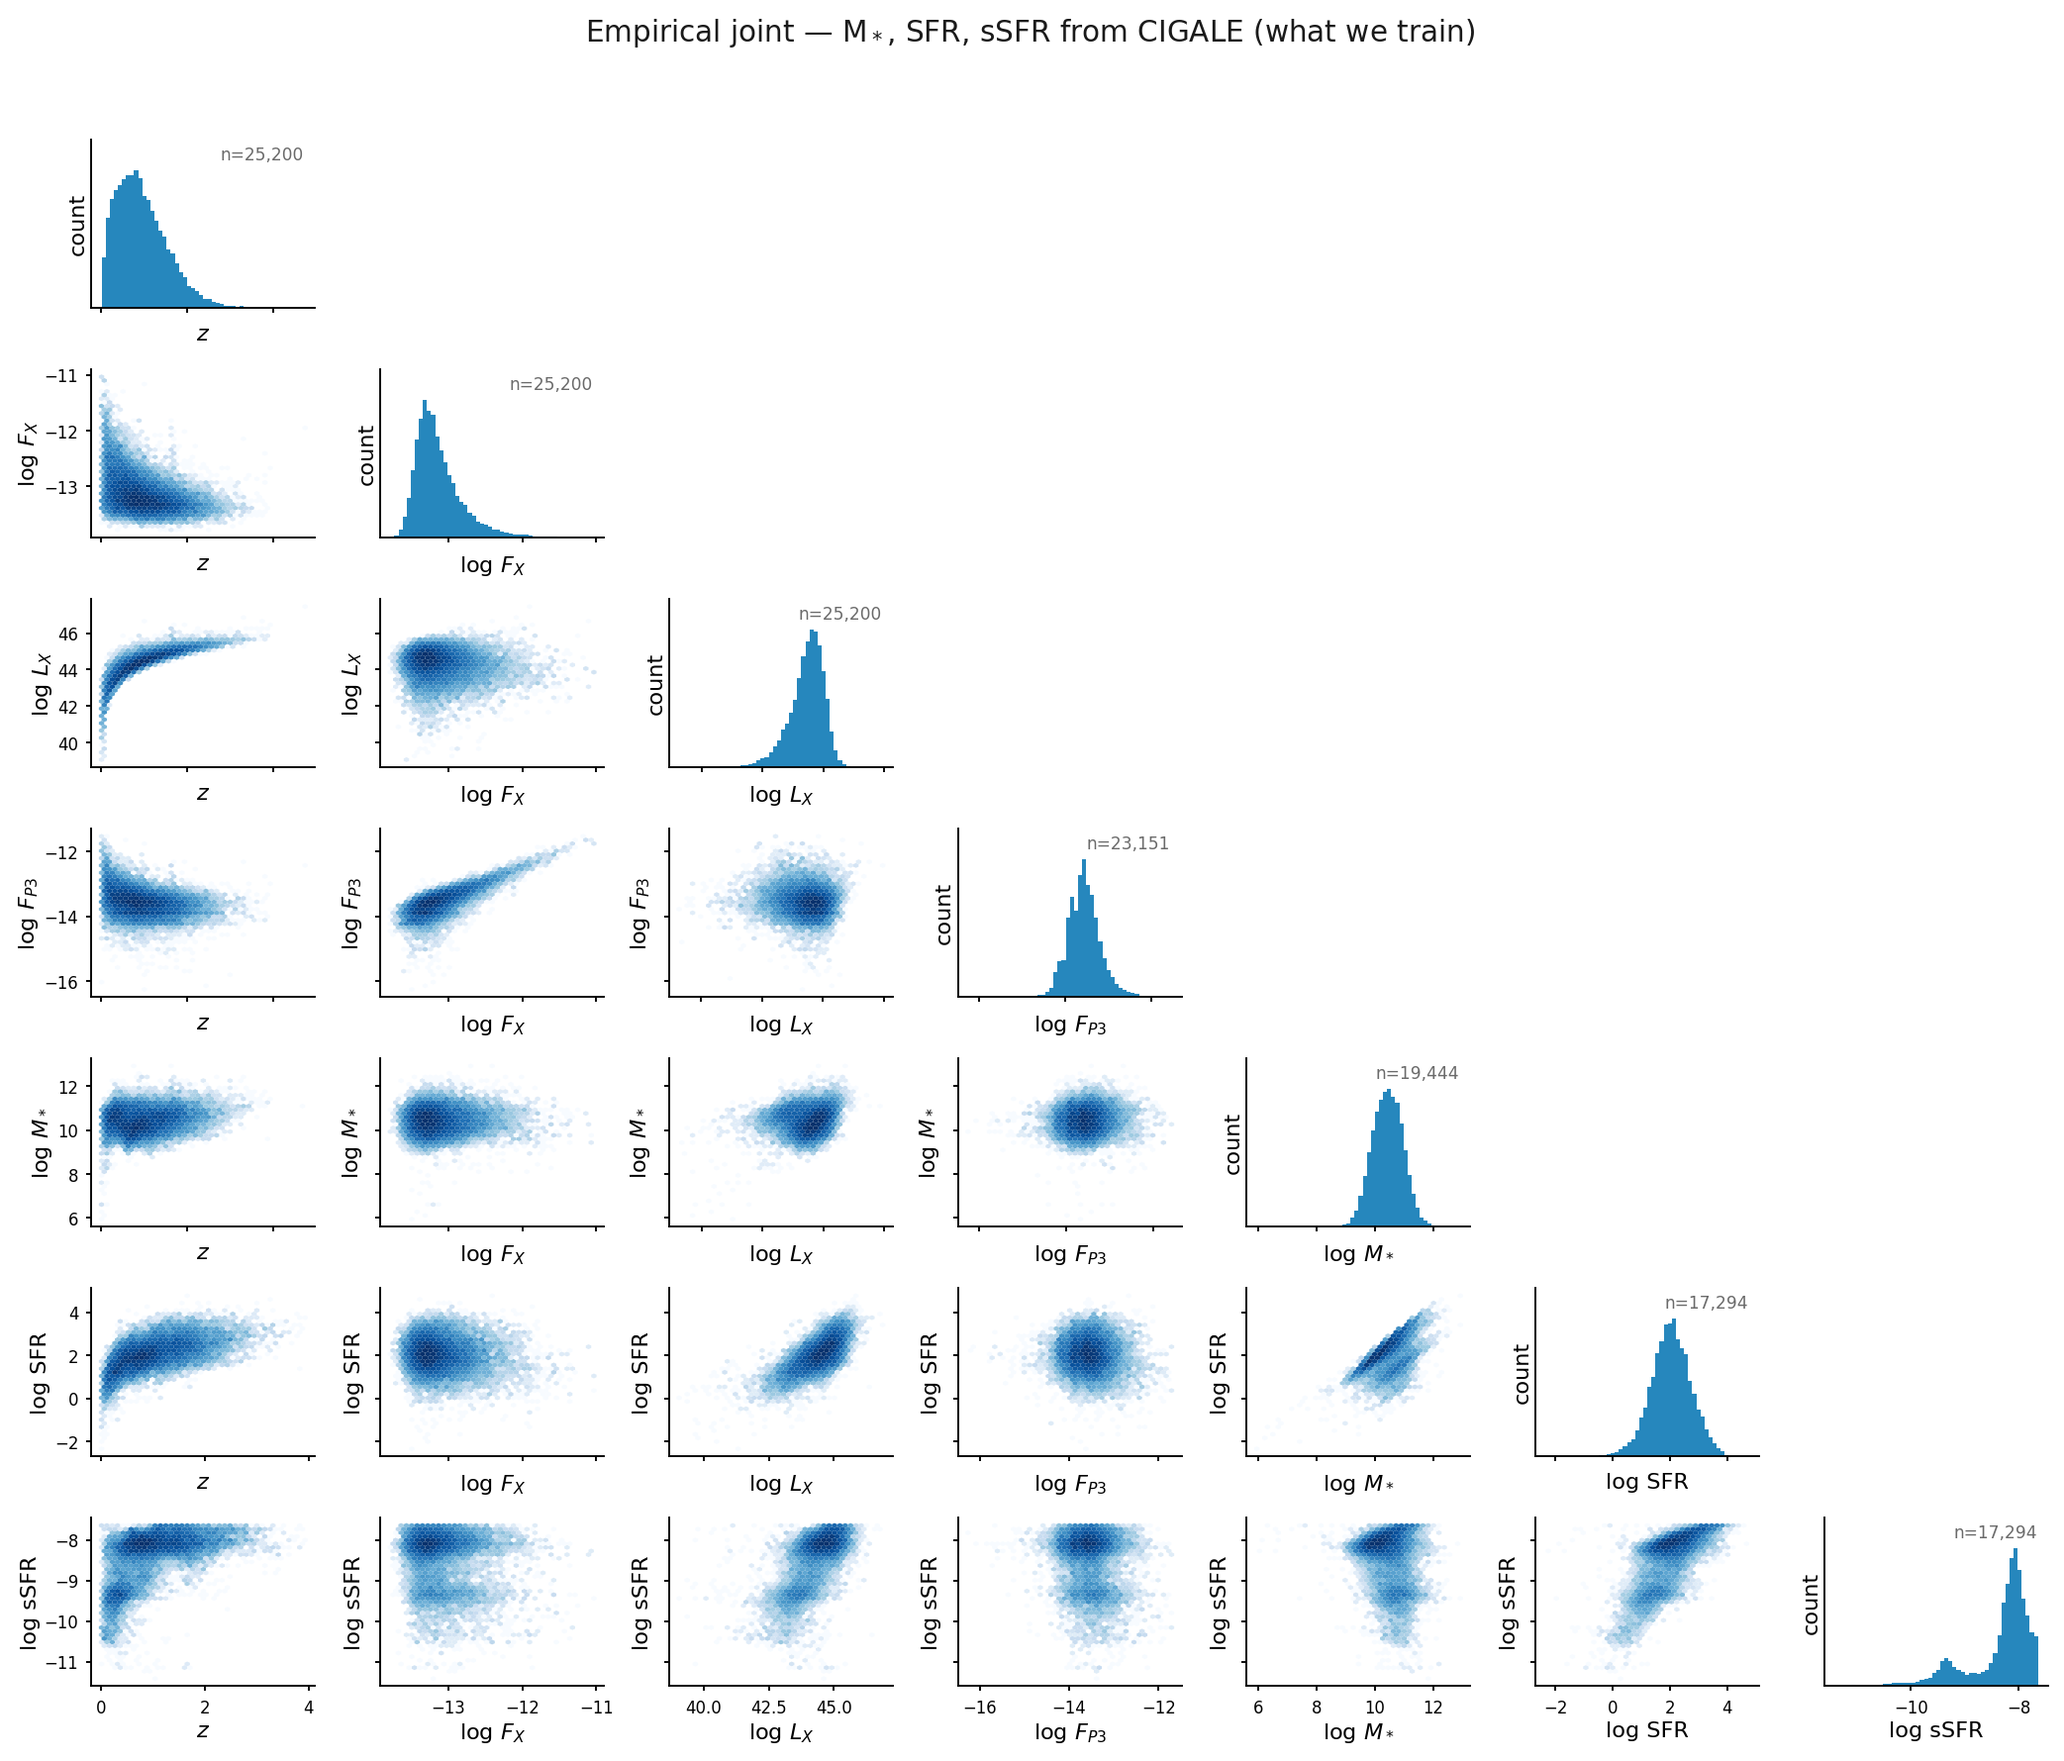
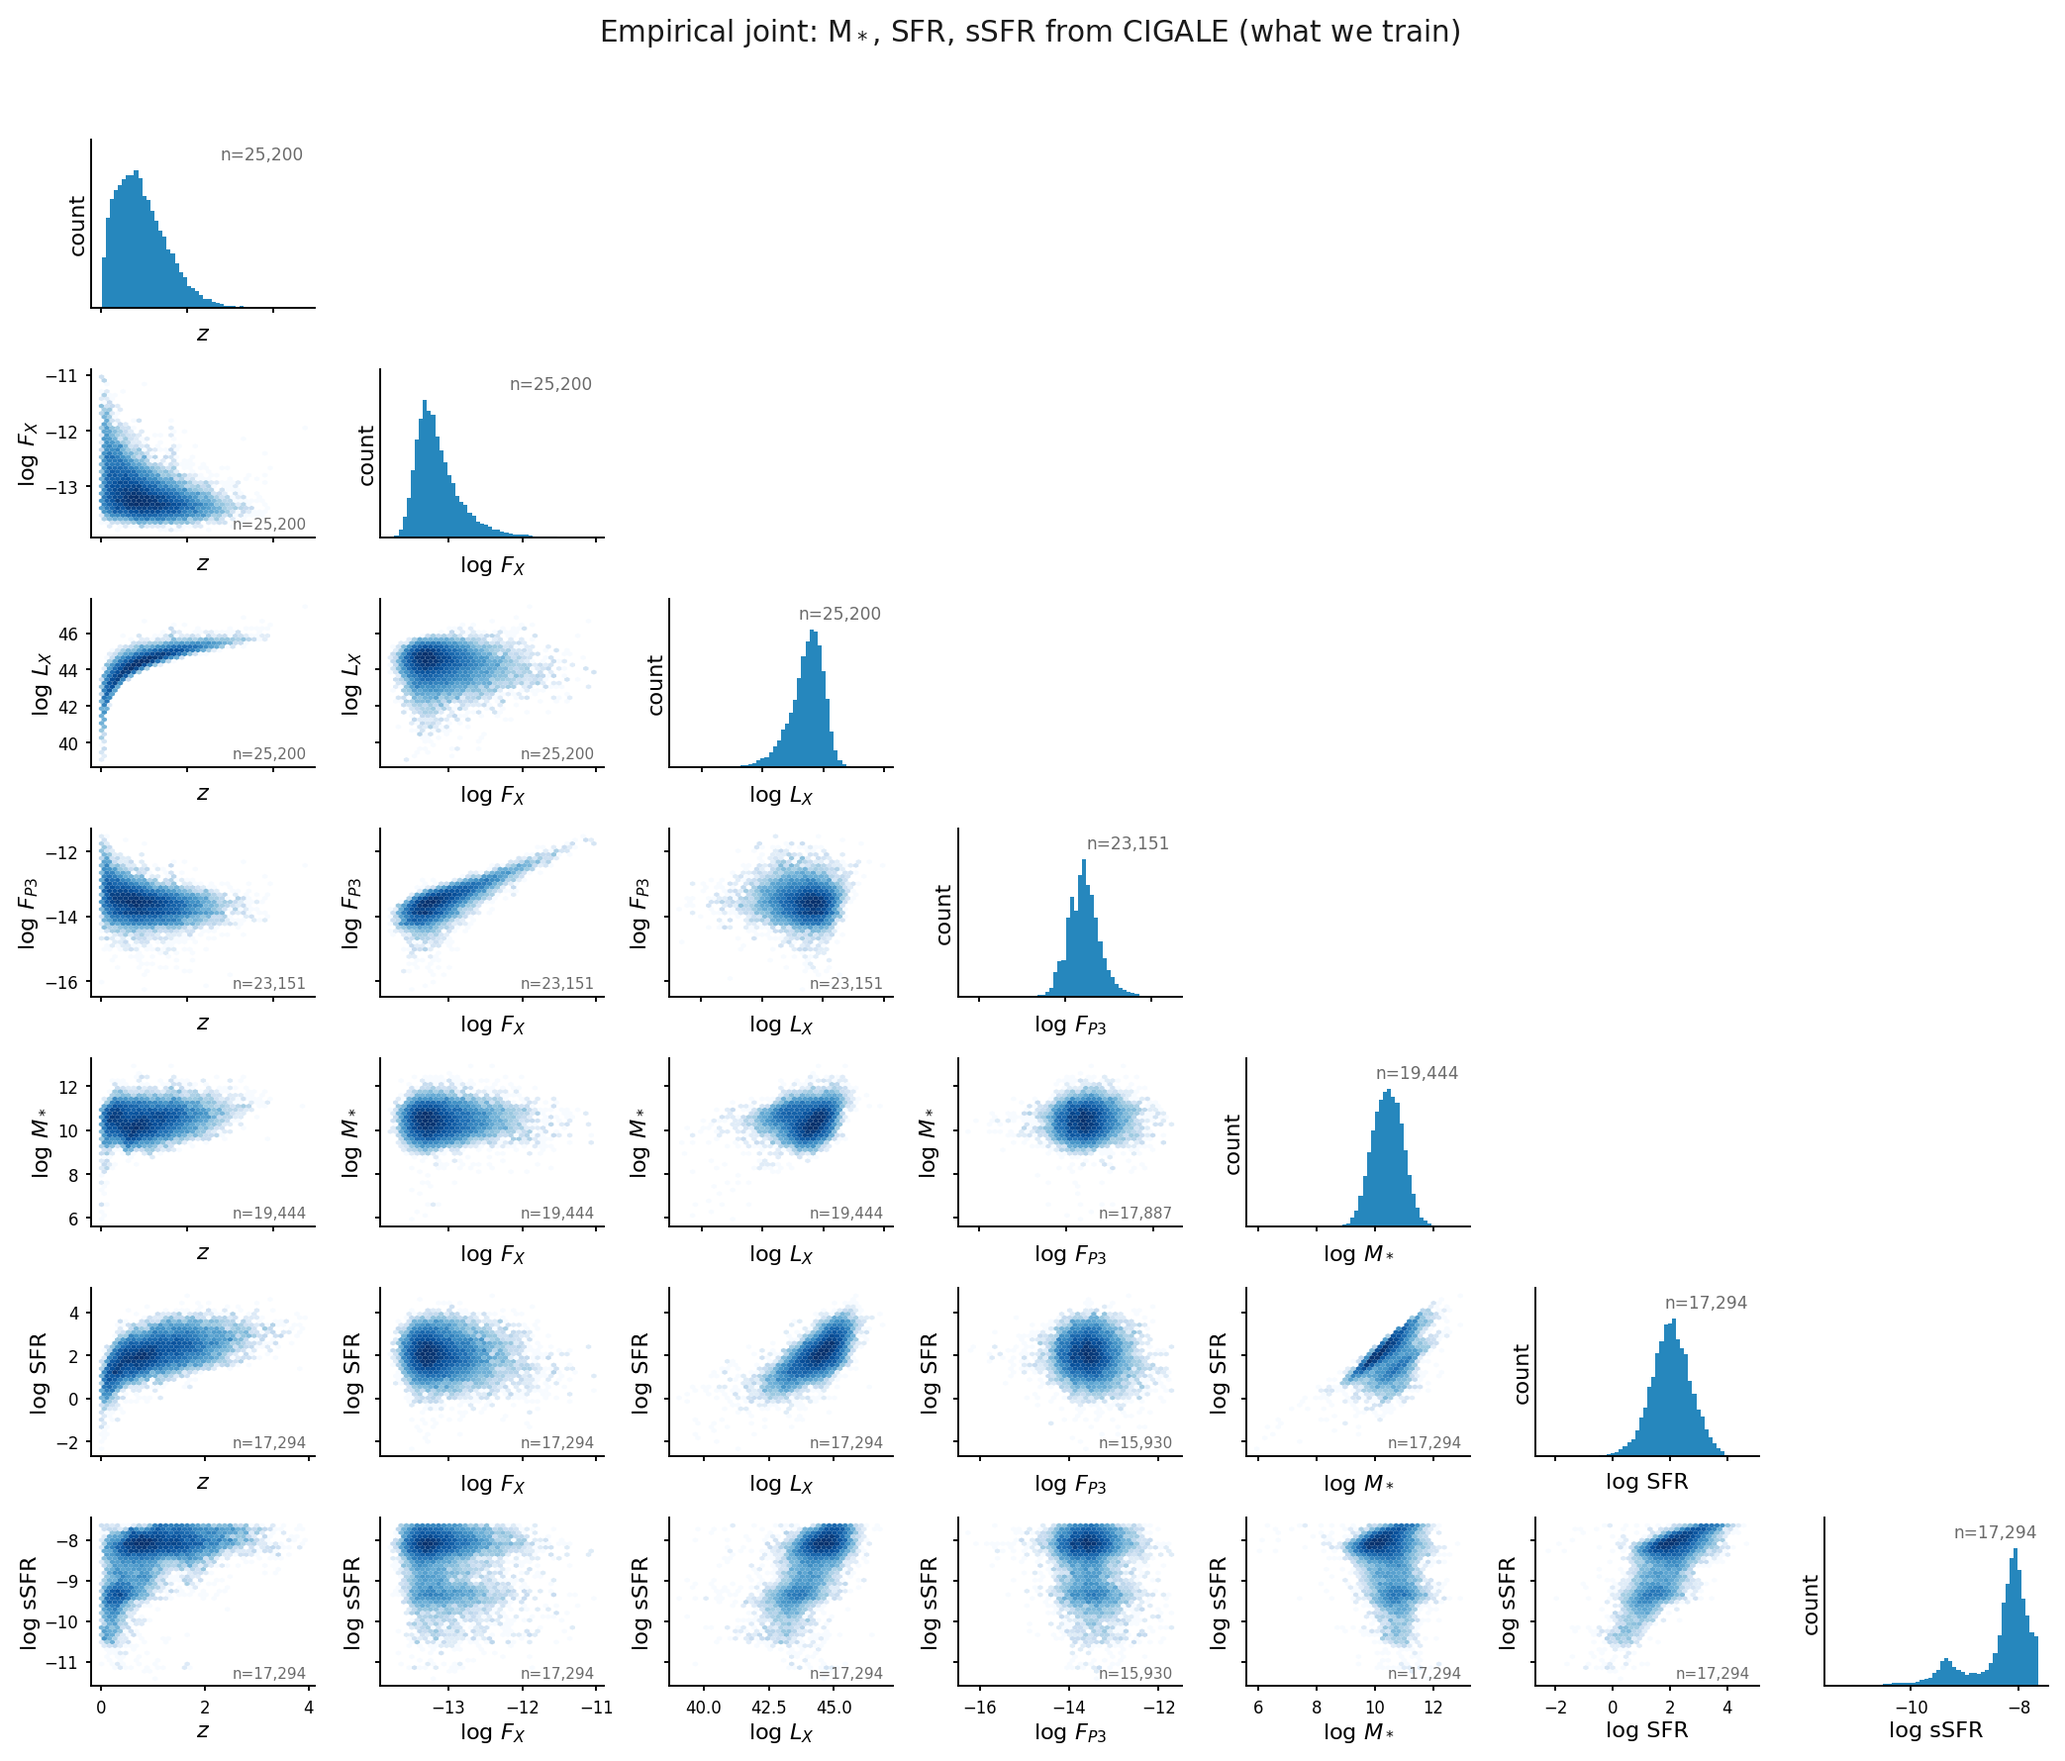
docs: make corner binning follow sample size, and label the pair count
The two corner variants looked like different KINDS of plot in the SFR and sSFR
panels. Same code path, no branch: hexbin gridsize was pinned at 38 and the
diagonal at 50 bins regardless of n. At gridsize 38 there are ~1,400 cells, so
17,294 CIGALE sources fill them into a smooth cloud while 502 Halpha sources
leave nearly every occupied cell at exactly one count, which under LogNorm is
the palest shade in the ramp and reads as a sparse scatter.

gridsize and bins now scale with sqrt(n) (gridsize 14 at n=502, 38 at n=17,294),
so the visual language is the same at any sample size. Every off-diagonal panel
also carries its PAIR count, which is not the marginal count on the diagonal: a
panel pairing a 502-source column against a 25,200-source one shows 502.

Variant B's title now states the restriction that causes the gap. The Halpha SFR
needs Halpha/Hbeta/[NII]/[OIII] detected, z < 0.49 to keep Halpha in range, and
a Kauffmann BPT star-forming cut that excludes AGN by construction. On an 87%
QSO sample that leaves 502 sources, so variant B is a different subsample, not
the same one measured another way.

Claude-Session: https://claude.ai/code/session_01UBstgpgc5mhfYM5hW6yEdG

diff --git a/docs/make_data_figures.py b/docs/make_data_figures.py
@@ -92,6 +92,24 @@ def load(args) -> pd.DataFrame:
     return df
 
 
+def _gridsize(n: int) -> int:
+    """Hexbin resolution that follows the sample size.
+
+    A FIXED grid is what made the two corner variants look like different kinds
+    of plot. At gridsize 38 there are ~1,400 cells: 17,000 sources fill them and
+    render as a smooth cloud, while 500 sources leave almost every occupied cell
+    holding exactly one count, which under LogNorm is the palest shade in the
+    ramp, so the panel reads as a sparse scatter. Targeting a few counts per
+    occupied cell keeps the visual language the same at any n.
+    """
+    return int(np.clip(round(np.sqrt(n) / 1.6), 10, 38))
+
+
+def _nbins(n: int) -> int:
+    """Histogram bins by the sqrt rule, for the same reason as _gridsize."""
+    return int(np.clip(round(np.sqrt(n)), 10, 50))
+
+
 def draw_corner(fig, data: dict, axes=None, label_size: float = 9.5,
                 tick_size: float = 7.0) -> None:
     """Draw the corner panels onto an existing figure.
@@ -111,7 +129,8 @@ def draw_corner(fig, data: dict, axes=None, label_size: float = 9.5,
                 continue
             if i == j:
                 v = data[ni][np.isfinite(data[ni])]
-                ax.hist(v, bins=50, color="#0072B2", alpha=0.85, edgecolor="none")
+                ax.hist(v, bins=_nbins(len(v)), color="#0072B2", alpha=0.85,
+                        edgecolor="none")
                 ax.set_yticks([])
                 ax.margins(y=0.22)          # headroom so the count never sits on the peak
                 ax.text(0.95, 0.88, f"n={len(v):,}", transform=ax.transAxes, ha="right",
@@ -119,9 +138,15 @@ def draw_corner(fig, data: dict, axes=None, label_size: float = 9.5,
             else:
                 x, y = data[nj], data[ni]
                 m = np.isfinite(x) & np.isfinite(y)
-                if m.sum() > 10:
-                    ax.hexbin(x[m], y[m], gridsize=38, cmap="Blues", norm=LogNorm(),
-                              linewidths=0, mincnt=1)
+                n = int(m.sum())
+                if n > 10:
+                    ax.hexbin(x[m], y[m], gridsize=_gridsize(n), cmap="Blues",
+                              norm=LogNorm(), linewidths=0, mincnt=1)
+                # the PAIR count, which is not the marginal count on the diagonal:
+                # a panel pairing a 500-source column with a 25,000-source one
+                # shows 500, and without this the reader cannot tell.
+                ax.text(0.96, 0.05, f"n={n:,}", transform=ax.transAxes, ha="right",
+                        fontsize=6.4, color=MUTED)
             ax.tick_params(labelsize=tick_size, length=2)
             for sp in ("top", "right"):
                 ax.spines[sp].set_visible(False)
@@ -258,10 +283,14 @@ def main() -> None:
     df = load(args)
     print(f"[data] {len(df):,} clean-split rows")
     corner(df, args.figdir / "fig_corner.png", VARS_CIGALE,
-           "Empirical joint — M$_*$, SFR, sSFR from CIGALE (what we train)")
+           "Empirical joint: M$_*$, SFR, sSFR from CIGALE (what we train)")
+    # The restriction belongs in the title: the Halpha SFR needs four lines
+    # detected, z < 0.49 to keep Halpha in range, and a BPT star-forming cut that
+    # excludes AGN by construction. On an 87% QSO sample that leaves ~500
+    # sources, so this is a different subsample, not the same one re-measured.
     corner(df, args.figdir / "fig_corner_alt.png", VARS_ALT,
-           "Empirical joint — M$_*$ from FastSpecFit, SFR from H$\\alpha$ "
-           "(independent of CIGALE)")
+           "Variant B: M$_*$ from FastSpecFit, SFR from H$\\alpha$ "
+           "(BPT star-forming, $z<0.49$, n=502)")
     ex = spectra_figure(df, args, args.figdir / "fig_examples_spectra.png")
     images_figure(ex, args, args.figdir / "fig_examples_images.png")
 
